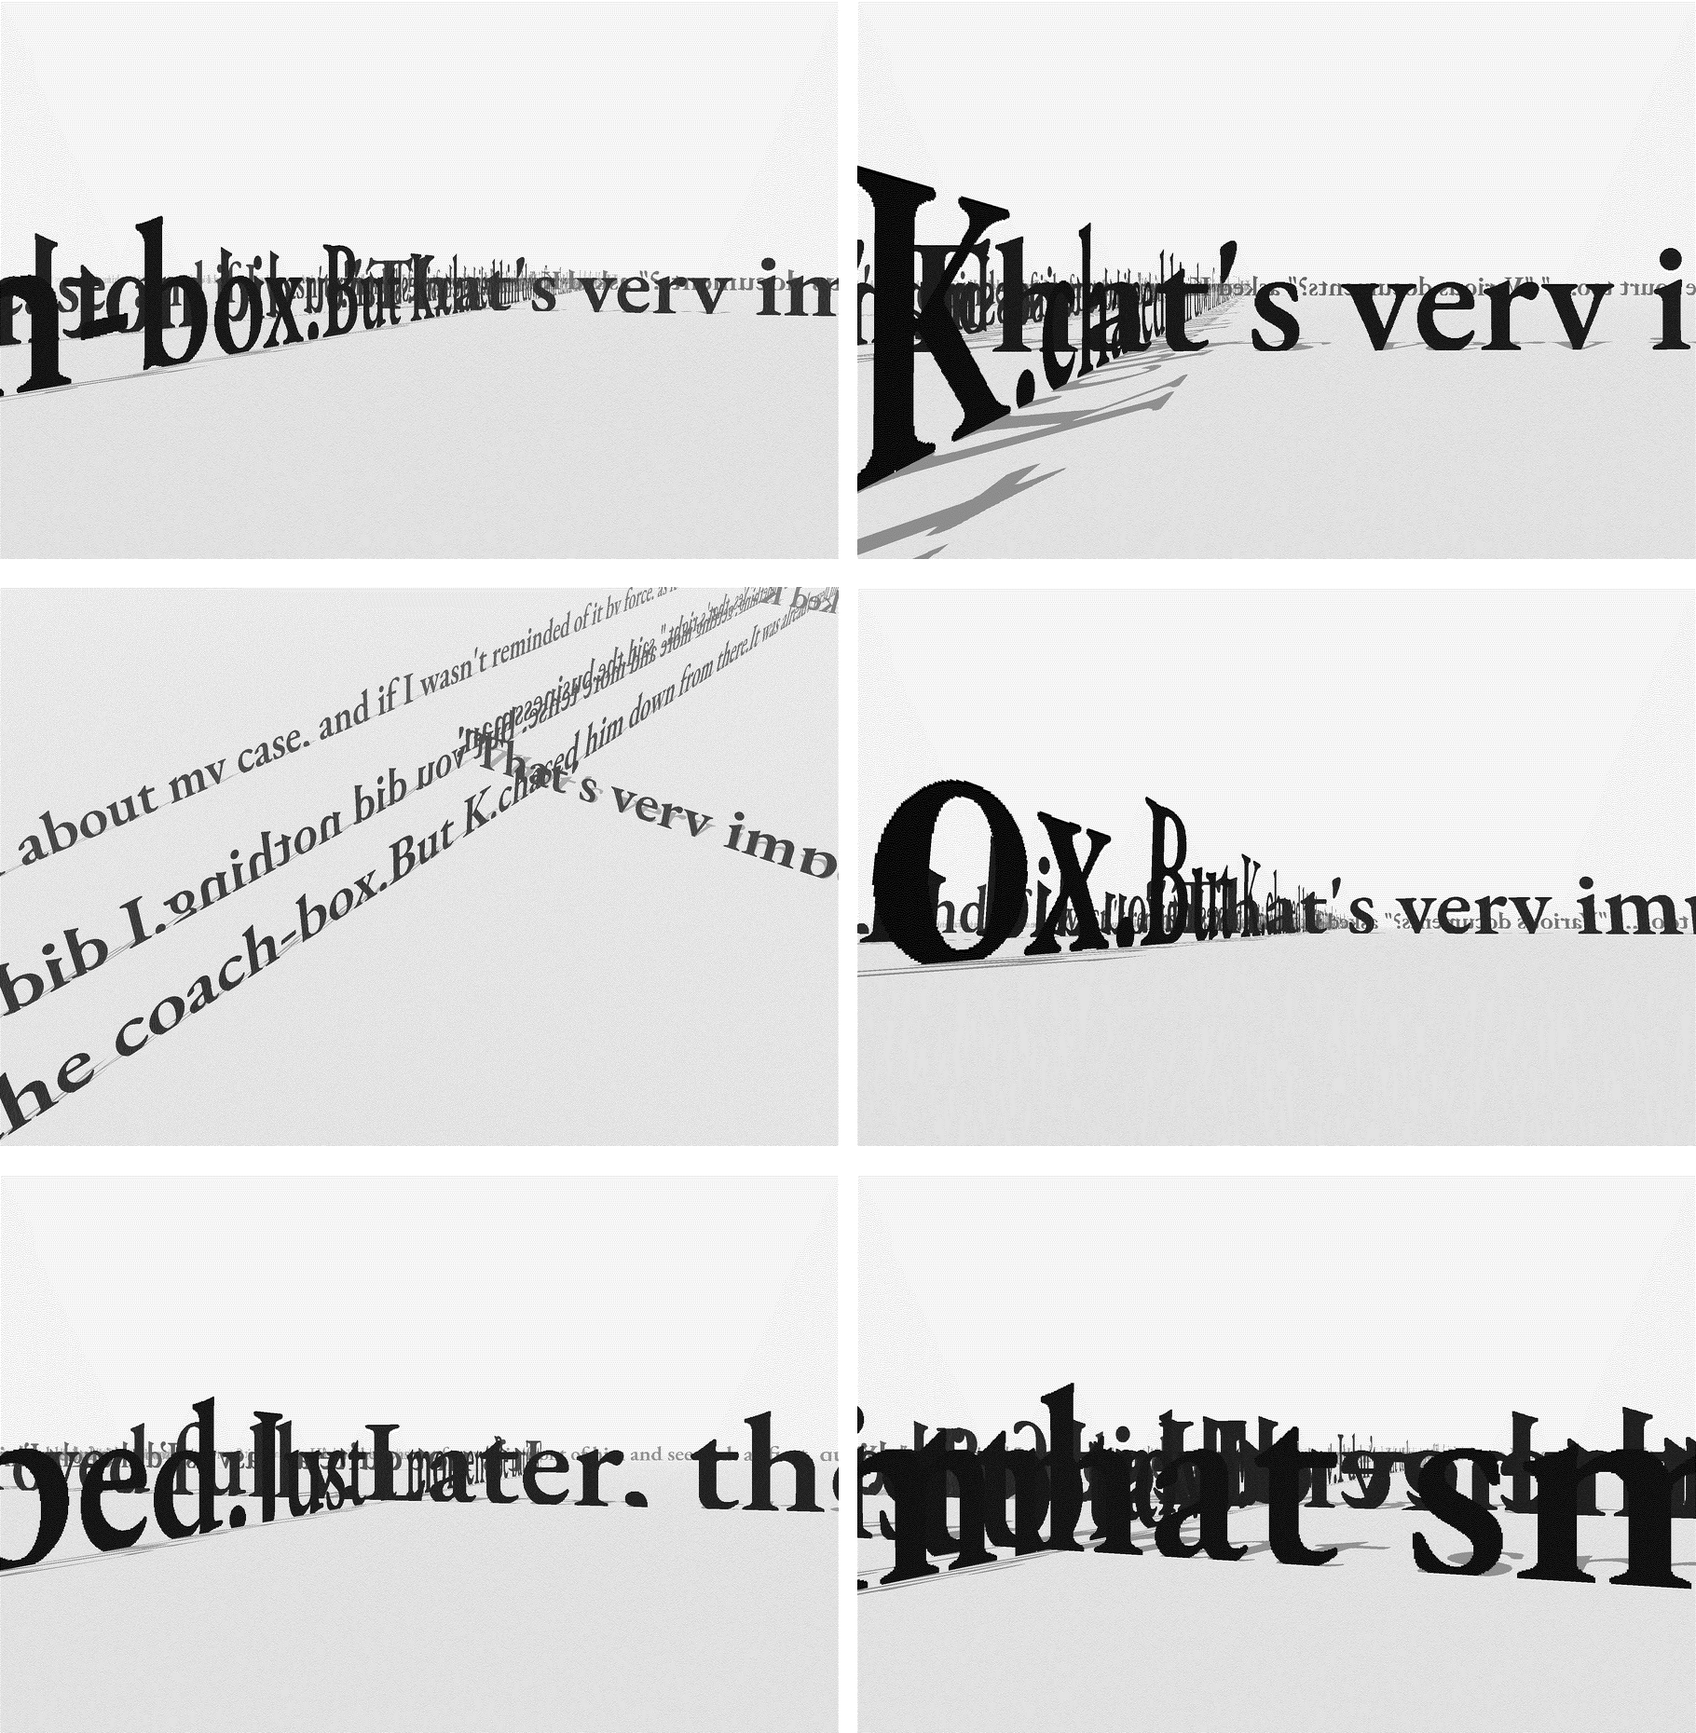
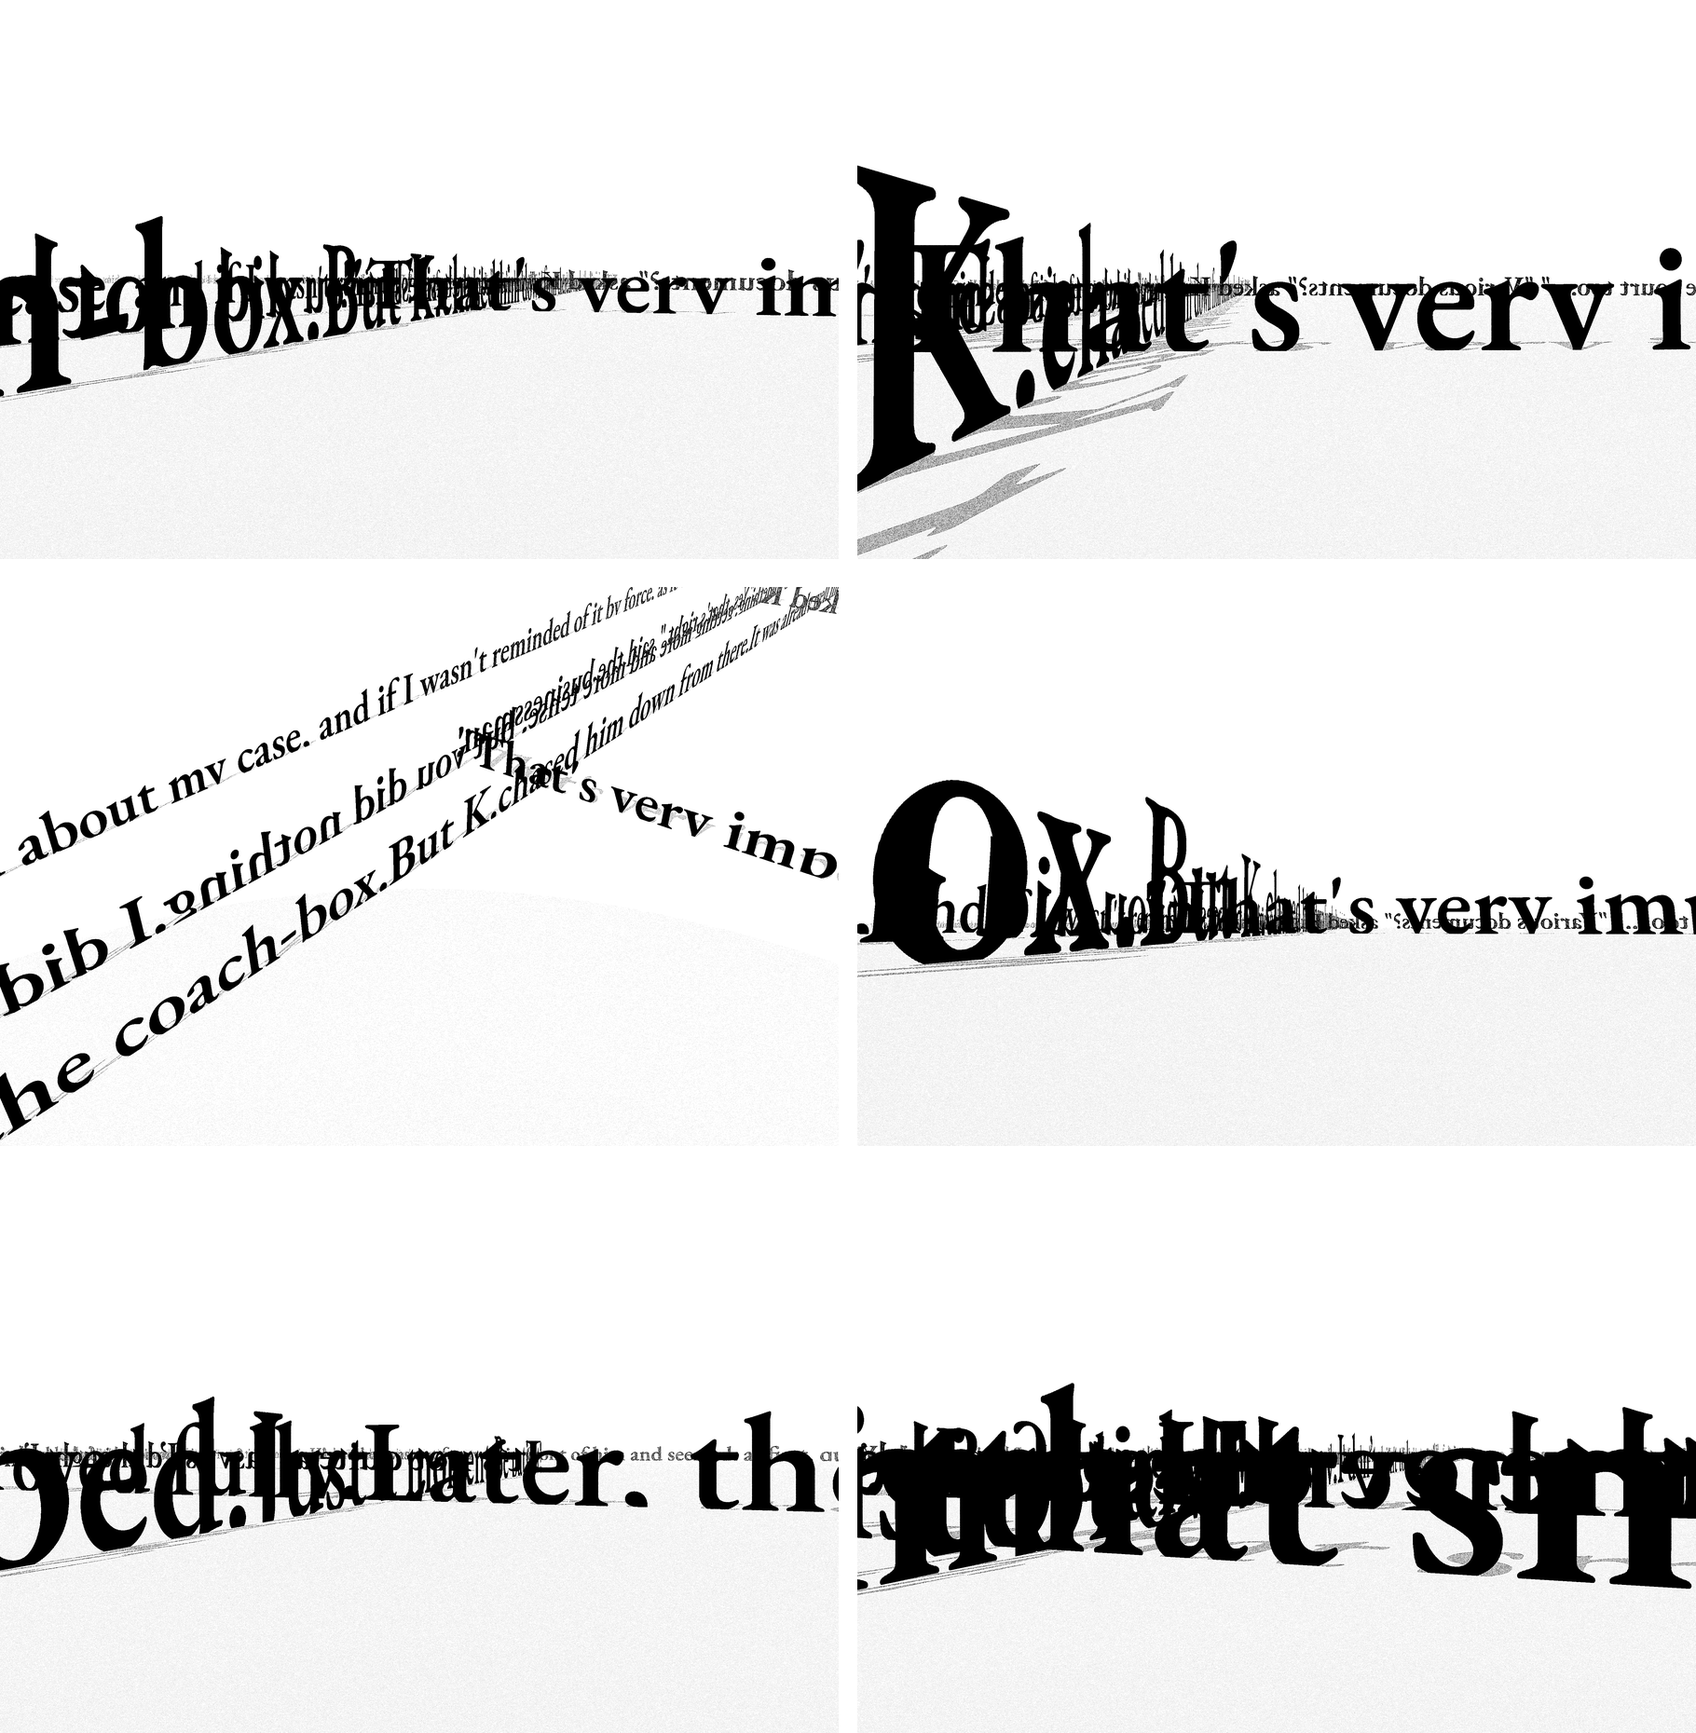
Screen ground views to 1-bit with the grudgebook halftone (stochastic clustered dots, 1200 dpi)
Claude-Session: https://claude.ai/code/session_01K5asSwsiws4qopijqkz6rv

Changed region(s): [[0.0, 0.0, 1.0, 1.0]]

diff --git a/tools/halftone.c b/tools/halftone.c
@@ -1,0 +1,119 @@
+/* Randomised serpentine error diffusion for tools/halftone.py.
+ *
+ * Floyd-Steinberg diffusion (7/16, 3/16, 5/16, 1/16) run in serpentine
+ * order, with two sources of randomness that break up the patterns plain
+ * error diffusion leaves in flat tones: the threshold is jittered for every
+ * pixel, and the four weights are randomly perturbed (and renormalised) for
+ * every pixel. The result is grain placed irregularly at all tone levels,
+ * without grid, lattice or "worm" artefacts.
+ *
+ * in:  h*w doubles, ink coverage 0..1 (overwritten as the error buffer)
+ * out: h*w bytes, 1 = ink
+ */
+#include <stdint.h>
+
+static uint64_t s;
+static double rnd(void) {            /* xorshift64*, uniform in [0,1) */
+    s ^= s >> 12; s ^= s << 25; s ^= s >> 27;
+    return (double)((s * 2685821657736338717ULL) >> 11) / 9007199254740992.0;
+}
+
+void diffuse(double *in, uint8_t *out, int h, int w,
+             double tjit, double wjit, uint64_t seed) {
+    s = seed ? seed : 88172645463325252ULL;
+    for (int y = 0; y < h; y++) {
+        int ltr = (y % 2 == 0);
+        for (int k = 0; k < w; k++) {
+            int x = ltr ? k : w - 1 - k;
+            int d = ltr ? 1 : -1;
+            double v = in[(long)y * w + x];
+            double t = 0.5 + tjit * (rnd() - 0.5);
+            int ink = v > t;
+            out[(long)y * w + x] = (uint8_t)ink;
+            double e = v - (ink ? 1.0 : 0.0);
+            double a = 7 * (1 + wjit * (rnd() - 0.5));
+            double b = 3 * (1 + wjit * (rnd() - 0.5));
+            double c = 5 * (1 + wjit * (rnd() - 0.5));
+            double f = 1 * (1 + wjit * (rnd() - 0.5));
+            double n = a + b + c + f;
+            int xn = x + d, xp = x - d;
+            if (xn >= 0 && xn < w) in[(long)y * w + xn] += e * a / n;
+            if (y + 1 < h) {
+                long r = (long)(y + 1) * w;
+                if (xp >= 0 && xp < w) in[r + xp] += e * b / n;
+                in[r + x] += e * c / n;
+                if (xn >= 0 && xn < w) in[r + xn] += e * f / n;
+            }
+        }
+    }
+}
+
+/* Stochastic clustered-dot ("analog newspaper") threshold field.
+ *
+ * Dot centres are thrown at random with a minimum spacing (dart throwing),
+ * so they are evenly spread but follow no grid, row or lattice. Every pixel
+ * gets the distance to its nearest centre, scaled by a random size factor
+ * for that centre. Ranked into a uniform 0..1 threshold (in Python), the
+ * field makes dots that grow from each centre as the tone darkens, merge in
+ * the three-quarter tones and leave irregular white holes in the shadows,
+ * as an analog halftone does, but with chaotic placement.
+ *
+ * T:       h*w floats, output distance field
+ * s:       mean dot spacing in pixels
+ * rmin:    minimum distance between centres, as a fraction of s
+ * wjit:    dot-size randomness (0.2 = +/-10 %)
+ */
+#include <stdlib.h>
+#include <math.h>
+
+#define CAP 12
+void dot_field(float *T, int h, int w, double sp, double rmin, double wjit, uint64_t seed) {
+    s = seed ? seed : 88172645463325252ULL;
+    int gw = (int)(w / sp) + 3, gh = (int)(h / sp) + 3;
+    float *px = malloc(sizeof(float) * (size_t)gw * gh * CAP);
+    float *py = malloc(sizeof(float) * (size_t)gw * gh * CAP);
+    float *pk = malloc(sizeof(float) * (size_t)gw * gh * CAP);
+    unsigned char *cnt = calloc((size_t)gw * gh, 1);
+    double r2 = (rmin * sp) * (rmin * sp);
+    long tries = (long)(12.0 * (double)w * h / (sp * sp));
+    for (long n = 0; n < tries; n++) {
+        double x = rnd() * (w + 2 * sp) - sp, y = rnd() * (h + 2 * sp) - sp;
+        int bx = (int)((x + sp) / sp), by = (int)((y + sp) / sp);
+        if (bx < 0 || by < 0 || bx >= gw || by >= gh) continue;
+        int ok = 1;
+        for (int j = by - 1; j <= by + 1 && ok; j++)
+            for (int i = bx - 1; i <= bx + 1 && ok; i++) {
+                if (i < 0 || j < 0 || i >= gw || j >= gh) continue;
+                long b = (long)j * gw + i;
+                for (int k = 0; k < cnt[b]; k++) {
+                    double dx = px[b * CAP + k] - x, dy = py[b * CAP + k] - y;
+                    if (dx * dx + dy * dy < r2) { ok = 0; break; }
+                }
+            }
+        long b = (long)by * gw + bx;
+        if (ok && cnt[b] < CAP) {
+            px[b * CAP + cnt[b]] = (float)x; py[b * CAP + cnt[b]] = (float)y;
+            pk[b * CAP + cnt[b]] = (float)(1.0 + wjit * (rnd() - 0.5));
+            cnt[b]++;
+        }
+    }
+    for (int y = 0; y < h; y++) {
+        int by = (int)((y + sp) / sp);
+        for (int x = 0; x < w; x++) {
+            int bx = (int)((x + sp) / sp);
+            double best = 1e30;
+            for (int j = by - 2; j <= by + 2; j++)
+                for (int i = bx - 2; i <= bx + 2; i++) {
+                    if (i < 0 || j < 0 || i >= gw || j >= gh) continue;
+                    long b = (long)j * gw + i;
+                    for (int k = 0; k < cnt[b]; k++) {
+                        double dx = px[b * CAP + k] - x, dy = py[b * CAP + k] - y;
+                        double d = sqrt(dx * dx + dy * dy) * pk[b * CAP + k];
+                        if (d < best) best = d;
+                    }
+                }
+            T[(long)y * w + x] = (float)best;
+        }
+    }
+    free(px); free(py); free(pk); free(cnt);
+}

diff --git a/tools/halftone.py b/tools/halftone.py
@@ -1,0 +1,113 @@
+#!/usr/bin/env python3
+"""1-bit screening for the book's raster images (the ground views).
+
+The same method as the sister project's tools/halftone.py: every raster
+image is printed as a 1-bit bitmap at its exact placed size, at 1200 dpi, so
+the press never re-screens it.
+
+Pipeline: levels (0.5 / 99.5 percentile) → resample to the device grid →
+unsharp mask → gentle S-curve → ink coverage → inverse dot gain (12 %) →
+clean paper white / solid black → screen.
+
+Screens (tools/halftone.c, compiled on first use):
+  dots  stochastic clustered dots (default): dot centres thrown at random with
+        a minimum spacing, dots growing from each centre as the tone darkens;
+        no grid, rows or lattice. Mean spacing 220 dots per inch.
+  fm    randomised serpentine Floyd–Steinberg: threshold and weights jittered
+        per pixel, so flat tones show no lattice or worms.
+
+Usage:
+    python3 tools/halftone.py in.png out.png --width-in 5.04 [--screen dots|fm]
+or from Python: screen_array(gray01, width_in) -> bool ink array.
+"""
+import argparse
+import ctypes
+import os
+import subprocess
+import tempfile
+import zlib
+
+import numpy as np
+from PIL import Image, ImageFilter
+
+HERE = os.path.dirname(os.path.abspath(__file__))
+A5_TEXT_WIDTH_IN = (148 - 2 * 10) / 25.4   # A5 with 10 mm side margins
+
+
+def _lib():
+    src = os.path.join(HERE, "halftone.c")
+    so = os.path.join(tempfile.gettempdir(), "typomaze-halftone-%d.so" % int(os.path.getmtime(src)))
+    if not os.path.exists(so):
+        subprocess.run(["cc", "-O2", "-shared", "-fPIC", "-o", so, src, "-lm"], check=True)
+    lib = ctypes.CDLL(so)
+    lib.diffuse.argtypes = [ctypes.c_void_p, ctypes.c_void_p, ctypes.c_int, ctypes.c_int,
+                            ctypes.c_double, ctypes.c_double, ctypes.c_uint64]
+    lib.dot_field.argtypes = [ctypes.c_void_p, ctypes.c_int, ctypes.c_int, ctypes.c_double,
+                              ctypes.c_double, ctypes.c_double, ctypes.c_uint64]
+    return lib
+
+
+def dot_threshold(h, w, seed, spacing, rmin=0.62, wjit=0.35):
+    f = np.empty((h, w), dtype=np.float32)
+    _lib().dot_field(f.ctypes.data, h, w, spacing, rmin, wjit, seed)
+    hist, edges = np.histogram(f, bins=8192)
+    cdf = np.concatenate([[0.0], np.cumsum(hist) / f.size])
+    return np.interp(f, edges, cdf).astype(np.float32)
+
+
+def diffuse(cov, seed, tjit=0.25, wjit=0.5):
+    buf = np.ascontiguousarray(cov, dtype=np.float64).copy()
+    out = np.zeros(buf.shape, dtype=np.uint8)
+    _lib().diffuse(buf.ctypes.data, out.ctypes.data, buf.shape[0], buf.shape[1], tjit, wjit, seed)
+    return out.astype(bool)
+
+
+def dot_gain_inverse(p, g):
+    if g <= 0:
+        return p
+    a = 1 + 4 * g
+    return (a - np.sqrt(a * a - 16 * g * p)) / (8 * g)
+
+
+def screen_array(gray, width_in=A5_TEXT_WIDTH_IN, dpi=1200, gain=0.12, kind="dots",
+                 spacing_dpi=220, seed=1, resample=Image.LANCZOS):
+    """gray: 2D array, 0 = black .. 1 = white. Returns a bool array, True = ink."""
+    h0, w0 = gray.shape
+    w = round(width_in * dpi); h = round(w * h0 / w0)
+    a = np.asarray(gray, dtype=float)
+    lo, hi = np.percentile(a, [0.5, 99.5])
+    a = np.clip((a - lo) / max(hi - lo, 1e-6), 0, 1)
+    im = Image.fromarray((a * 255).astype(np.uint8), "L").resize((w, h), resample)
+    im = im.filter(ImageFilter.UnsharpMask(radius=dpi / 400, percent=130, threshold=2))
+    a = np.asarray(im, dtype=float) / 255
+    a = a + 0.3 * (a * a * (3 - 2 * a) - a)
+    cov = 1 - np.clip(a, 0, 1)
+    cov = dot_gain_inverse(cov, gain)
+    cov[cov < 0.012] = 0
+    cov[cov > 0.988] = 1
+    if kind == "fm":
+        return diffuse(cov, seed | 1)
+    return cov > dot_threshold(h, w, seed | 1, dpi / spacing_dpi)
+
+
+def screen_file(src, dst, **kw):
+    gray = np.asarray(Image.open(src).convert("L"), dtype=float) / 255
+    kw.setdefault("seed", zlib.crc32(os.path.basename(src).encode()))
+    ink = screen_array(gray, **kw)
+    dpi = kw.get("dpi", 1200)
+    Image.fromarray(~ink).convert("1").save(dst, dpi=(dpi, dpi), optimize=True)
+    return ink.shape
+
+
+if __name__ == "__main__":
+    ap = argparse.ArgumentParser(description=__doc__.split("\n")[0])
+    ap.add_argument("src"); ap.add_argument("dst")
+    ap.add_argument("--width-in", type=float, default=A5_TEXT_WIDTH_IN)
+    ap.add_argument("--dpi", type=int, default=1200)
+    ap.add_argument("--gain", type=float, default=0.12)
+    ap.add_argument("--screen", choices=["dots", "fm"], default="dots")
+    ap.add_argument("--spacing", type=float, default=220)
+    a = ap.parse_args()
+    h, w = screen_file(a.src, a.dst, width_in=a.width_in, dpi=a.dpi, gain=a.gain,
+                       kind=a.screen, spacing_dpi=a.spacing)
+    print(f"{a.dst}  {w}x{h} px at {a.dpi} dpi")

diff --git a/prototypes/letters3d.py b/prototypes/letters3d.py
@@ -2,7 +2,7 @@
 # big upright 3D letters (glyphs extruded to a slab), baseline on the ground, reading in the walking
 # direction when seen from the right-hand side. Crossing sentences pass through each other.
 # Stroke length = the sentence's natural set width, so letters keep their true proportions.
-import re,sys,math,numpy as np
+import re,sys,os,math,numpy as np
 from PIL import Image,ImageDraw,ImageFont
 from numba import njit
 lex={}
@@ -52,7 +52,7 @@ atlas=np.zeros((HP,W_),np.uint8)
 for s,o in zip(near,offs):
     im=Image.new('L',(int(s['L']*PPU)+4,HP),0); ImageDraw.Draw(im).text((0,0),s['text'],font=font,fill=255)
     atlas[:,o:o+im.width]=np.asarray(im)
-ATL=(atlas>127)
+ATL=atlas            # antialiased glyph coverage, sampled bilinearly (contour at 50 %)
 # per stroke: origin, direction, left normal, length, atlas offset
 B=np.array([[s['x0'],s['y0'],D[s['d']][0],D[s['d']][1],s['L'],o] for s,o in zip(near,offs)],np.float64)
 print(len(near),"sentences in scene, atlas",ATL.shape)
@@ -74,9 +74,13 @@ def hit_scene(ox,oy,oz,dx,dy,dz,B,ATL,PPU,ASC,THK,tmax,HP,anyhit):
         if t<=1e-6 or t>=best: continue
         s_=(ox-x0)*ux+(oy-y0)*uy+(dx*ux+dy*uy)*t; z_=oz+dz*t
         if s_<0 or s_>=L or z_<0 or z_>ASC: continue
-        ix=int(s_*PPU); iz=int((ASC-z_)*PPU)
-        if iz<0 or iz>=HP: continue
-        if ATL[iz,off+ix]:
+        fx=s_*PPU-0.5; fz=(ASC-z_)*PPU-0.5
+        ix=int(math.floor(fx)); iz=int(math.floor(fz)); ax=fx-ix; az_=fz-iz
+        Lp=int(L*PPU)
+        if iz<0 or iz+1>=HP or ix<0 or ix+1>=Lp: continue
+        cov=(ATL[iz,off+ix]*(1-ax)*(1-az_)+ATL[iz,off+ix+1]*ax*(1-az_)
+             +ATL[iz+1,off+ix]*(1-ax)*az_+ATL[iz+1,off+ix+1]*ax*az_)
+        if cov>=127.5:
             if anyhit: return t,2,0.0,0.0,0.0
             best=t; kind=2
     return best,kind,0.0,0.0,1.0
@@ -113,7 +117,7 @@ elif MODE=='low':     # eye on the ground, letters towering
     cx,cy=jx-bx_*4-lx_*1.4,jy-by_*4-ly_*1.4; cz=0.12; tx,ty,tz=jx+bx_*4,jy+by_*4,1.1; fv=80
 fwd=np.array([tx-cx,ty-cy,tz-cz]); fwd/=np.linalg.norm(fwd)
 right=np.cross(fwd,[0,0,1.0]); right/=np.linalg.norm(right); up=np.cross(right,fwd)
-W,H=2400,1600; f=(W/2)/math.tan(math.radians(fv)/2)
+W,H=3000,2000; f=(W/2)/math.tan(math.radians(fv)/2)
 az=math.atan2(fwd[1],fwd[0])+math.radians(SUN_AZ); el=math.radians(SUN_EL)
 sun=np.array([math.cos(az)*math.cos(el),math.sin(az)*math.cos(el),math.sin(el)])
 OUT,DEP,LIT,NDS=[np.zeros((H,W),np.float64) for _ in range(4)]; KND=np.zeros((H,W),np.int8)
@@ -123,21 +127,14 @@ HAZE=55.0
 AMB=0.55
 col=np.where(KND==1,0.98*(AMB+0.62*LIT),0.0)
 col=np.where(KND==0,0.92+0.08*np.clip(NDS,0,1)**8,col)
-Tr=np.exp(-np.where(KND==0,1e9,DEP)/HAZE); col=col*Tr+0.96*(1-Tr)
+DH=np.where(KND==2,np.maximum(DEP-25.0,0.0),DEP)   # letters stay solid black for the first 25 units, then fade
+Tr=np.exp(-np.where(KND==0,1e9,DH)/HAZE); col=col*Tr+0.96*(1-Tr)
 img=np.clip(col,0,1)
-@njit(cache=True)
-def fs(a):
-    h,w=a.shape;o=np.zeros((h,w),np.uint8)
-    for y in range(h):
-        sd=1 if y%2==0 else -1
-        for i in range(w):
-            x=i if sd==1 else w-1-i
-            old=a[y,x];new=1.0 if old>=0.5 else 0.0;o[y,x]=255 if new>0 else 0;e=old-new
-            if 0<=x+sd<w: a[y,x+sd]+=e*7/16
-            if y+1<h:
-                if 0<=x-sd<w: a[y+1,x-sd]+=e*3/16
-                a[y+1,x]+=e*5/16
-                if 0<=x+sd<w: a[y+1,x+sd]+=e*1/16
-    return o
-Image.fromarray(fs(img.copy())).convert('1').save(out)
-Image.fromarray((img*255).astype(np.uint8)).save(out.replace('.png','_tone.png'))
+# --- 1-bit: the same screening as the sister project (stochastic clustered dots, 1200 dpi, placed size)
+sys.path.insert(0,'os.path.join(os.path.dirname(os.path.abspath(__file__)),"..","tools")')
+import halftone
+tone=out.replace('.png','_tone.png')
+Image.fromarray((np.clip(img,0,1)*255).astype(np.uint8)).save(tone)
+SCREEN=os.environ.get('SCREEN','dots')
+h_,w_=halftone.screen_file(tone,out,width_in=halftone.A5_TEXT_WIDTH_IN,kind=SCREEN)
+print("1-bit",w_,"x",h_,"at 1200 dpi,",SCREEN)

diff --git a/PLAN.md b/PLAN.md
@@ -199,8 +199,18 @@ anchors. It replaces the earlier walled-pathway version (kept for reference in
   the ground as legible letter shapes.
 - Haze fades distant sentences towards a light grey, which gives depth in pure
   black and white.
-- 1-bit by error diffusion. Black letters stay solid; the dots are only in the
-  ground, shadows, haze and sky.
+- **1-bit: the same screen as the sister project (grudgebook).** Every ground
+  view is rendered in greyscale, then screened by `tools/halftone.py` /
+  `tools/halftone.c` at its exact placed size (A5 text width, 1200 dpi), so
+  the press never re-screens it. The pipeline is: levels → resample to the
+  device grid → unsharp mask → gentle S-curve → inverse dot gain (12 %) →
+  clean white / solid black → **stochastic clustered dots** (random dot
+  centres with a minimum spacing, about 220 dots per inch, no grid or lattice).
+  The randomised error diffusion (`--screen fm`) is available as an
+  alternative.
+- Letters stay solid black for the first 25 units, so they print as pure ink
+  rather than dots. Only distant letters fade into the haze. The dots are in
+  the ground, the letter shadows, the haze and the sky.
 
 **Where the camera goes**
 - The busiest place: the point with the most distinct sentences within a

diff --git a/prototypes/README.md b/prototypes/README.md
@@ -27,5 +27,7 @@ and renders any camera position and tilt by per-pixel ray casting → `viewpoint
 
 `letters3d.py texts/7849.txt out.png [n] [sun_az] [sun_el] [mode]`, where mode is one of `stand among high low`.
 Sentences stand on the ground as black letters with no thickness, along their strokes; there are no walls.
-n picks the n-th busiest junction → `standing_letters.png`
+Output is screened to 1-bit with `tools/halftone.py` (the grudgebook method: stochastic clustered dots, 1200 dpi, A5 text width).
+Set `SCREEN=fm` for randomised error diffusion instead.
+n picks the n-th busiest junction → `standing_letters.png`, plus `standing_letters_1200dpi_detail.png` (a 1:1 crop of the 1200 dpi bitmap)
 (rows: stand / among, high / low, Metamorphosis / Yellow Wallpaper).
